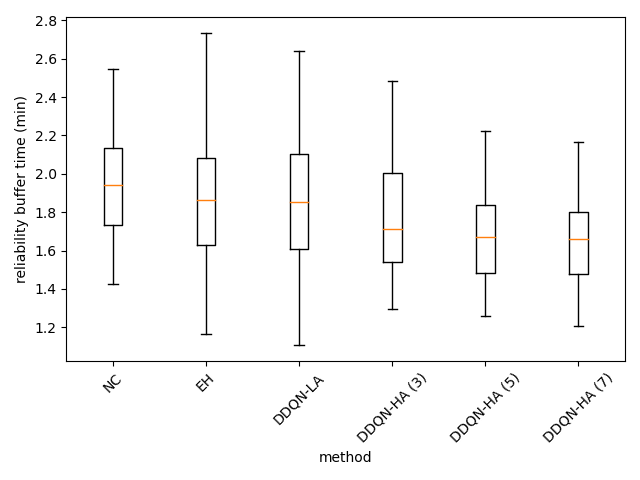
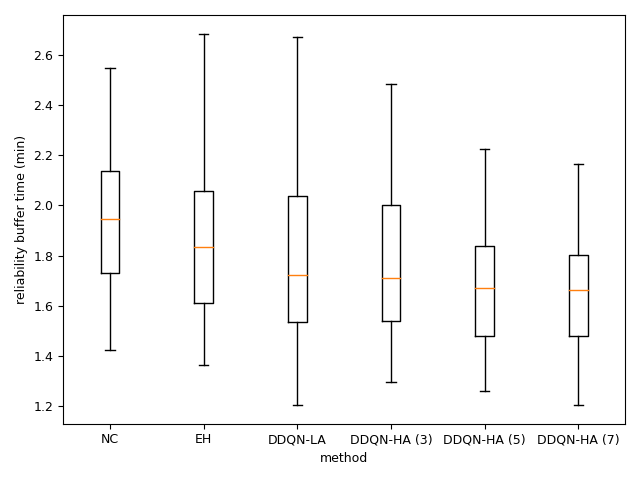
fix plots

diff --git a/src/04_SIMULATION/output.py b/src/04_SIMULATION/output.py
@@ -55,13 +55,8 @@ class PostProcessor:
             plot_sensitivity_whisker(wt_all_set, ['DDQN-LA', 'DDQN-HA'], ['0% (base)', '10%', '20%'],
                                      'avg pax wait time (min)', self.path_dir + 'wt.png')
         else:
-            plt.boxplot(wt_all_set, labels=self.cp_tags, sym='', widths=0.2)
-            plt.xticks(rotation=45)
-            plt.xlabel('method')
-            plt.ylabel('avg pax wait time (min)')
-            plt.tight_layout()
-            plt.savefig(self.path_dir + 'wt.png')
-            plt.close()
+            save(self.path_dir + 'wt_numer.pkl', wt_all_set)
+
         return results_d
 
     def headway(self, sensitivity_run_t=False, sensitivity_compliance=False):
@@ -98,7 +93,7 @@ class PostProcessor:
             plt.xlabel('method')
             plt.ylabel('coefficient of variation of headway')
             plt.tight_layout()
-            plt.savefig(self.path_dir + 'cv_hw.png')
+            # plt.savefig(self.path_dir + 'cv_hw.png')
             plt.close()
         cv_hw_set_sub = cv_hw_set[0:3] + [cv_hw_set[-1]]
         tags = self.cp_tags[0:3] + [self.cp_tags[-1]]
@@ -109,12 +104,13 @@ class PostProcessor:
         x = np.arange(len(idx_control_stops))
         width = 0.1
         fig, ax = plt.subplots()
-        bar1 = ax.bar(x - 3 * width / 2, cv_tp_set[0], width, label=tags[0])
-        bar2 = ax.bar(x - width / 2, cv_tp_set[1], width, label=tags[1])
-        bar3 = ax.bar(x + width / 2, cv_tp_set[2], width, label=tags[2])
-        bar4 = ax.bar(x + 3 * width / 2, cv_tp_set[3], width, label=tags[3])
+        bar1 = ax.bar(x - 3 * width / 2, cv_tp_set[0], width, label=tags[0], color='white', edgecolor='black')
+        bar2 = ax.bar(x - width / 2, cv_tp_set[1], width, label=tags[1], color='silver', edgecolor='black')
+        bar3 = ax.bar(x + width / 2, cv_tp_set[2], width, label=tags[2], color='gray', edgecolor='black')
+        bar4 = ax.bar(x + 3 * width / 2, cv_tp_set[3], width, label=tags[3], color='black', edgecolor='black')
 
         ax.set_ylabel('coefficient of variation of headway')
+        ax.set_xlabel('control stop')
         ax.set_xticks(x, idx_control_stops)
         ax.legend()
 
@@ -133,7 +129,7 @@ class PostProcessor:
         for trips in self.cp_trips:
             temp_lp, temp_lp_std, temp_peak_loads, max_load, min_load = load_from_trajectory_set(trips,
                                                                                                  STOPS, IDX_LOAD,
-                                                                                                 STOPS[57])
+                                                                                                 STOPS[56])
             load_profile_set.append(temp_lp)
             lp_std_set.append(temp_lp_std)
             peak_load_set.append(temp_peak_loads)

diff --git a/src/04_SIMULATION/main_sim.py b/src/04_SIMULATION/main_sim.py
@@ -106,7 +106,6 @@ results.update(prc.pax_times_fast(include_rbt=False))
 
 
 rbt_od_set = load(path_dir_b + 'rbt_numer.pkl')
-rbt_od_set = rbt_od_set[:2] + rbt_od_set[3:]
 for i in range(len(rbt_od_set)):
     rbt_od_set[i] = [rbt/60 for rbt in rbt_od_set[i]]
 results.update({'rbt_od': [np.around(np.mean(rbt), decimals=2) for rbt in rbt_od_set]})
@@ -115,16 +114,38 @@ results.update(prc.load_profile())
 results.update(prc.trip_time_dist())
 prc.write_trajectories()
 results.update(prc.control_actions())
+print(results)
 results_df = pd.DataFrame(results, columns=list(results.keys()))
 results_df.to_csv(path_dir_b + 'numer_results.csv', index=False)
 
 #
-# plt.boxplot(rbt_od_set, labels=tags_b, sym='', widths=0.2)
-# plt.xticks(rotation=45)
-# plt.xlabel('method')
-# plt.ylabel('reliability buffer time (min)')
+fig, axs = plt.subplots(ncols=2)
+axs[0].boxplot(rbt_od_set, labels=tags_b, sym='', widths=0.2)
+# plt.yticks(fontsize=8)
+# plt.xticks(fontsize=8, rotation=90)
+axs[0].set_xticks(np.arange(1, len(tags_b)+1))
+axs[0].set_xticklabels(tags_b, rotation=90, fontsize=8)
+axs[0].tick_params(axis='y', labelsize=8)
+# plt.xlabel('method', fontsize=9)
+axs[0].set_ylabel('reliability buffer time (min)', fontsize=8)
+
+
+wt_all_set = load(path_dir_b + 'wt_numer.pkl')
+axs[1].boxplot(wt_all_set, labels=tags_b, sym='', widths=0.2)
+# plt.xticks(fontsize=8, rotation=90)
+# plt.yticks(fontsize=8)
+axs[1].set_xticks(np.arange(1, len(tags_b)+1))
+axs[1].set_xticklabels(tags_b, rotation=90, fontsize=8)
+axs[1].tick_params(axis='y', labelsize=8)
+# plt.xlabel('method', fontsize=9)
+axs[1].set_ylabel('avg pax wait time (min)', fontsize=8)
+
+plt.tight_layout()
+plt.savefig(path_dir_b + 'pax_times.png')
+plt.close()
+
 # plt.tight_layout()
-# plt.savefig(path_dir_b + 'rbt.png')
+# plt.savefig(path_dir_b + 'wt.png')
 # plt.close()
 
 # # VARIABILITY RUN TIMES

diff --git a/src/04_SIMULATION/post_process.py b/src/04_SIMULATION/post_process.py
@@ -517,8 +517,9 @@ def plot_load_profile_grid(lp_set, lp_max_set, lp_min_set, lp_sd_set, os, tags, 
         ax.set_title(tags[subset_idx[i]], fontsize=9)
         ax.grid(axis='y')
         ax.axhline(y=40, color='red', alpha=0.5)
-        obj1 = ax.fill_between(x1, upper_bound1, lower_bound1, alpha=0.8)
-        obj2 = ax.fill_between(x1, upper_bound2, lower_bound2, alpha=0.2)
+        # ax.axvline(x=56, color='blue', alpha=0.5)
+        obj1 = ax.fill_between(x1, upper_bound1, lower_bound1, alpha=0.8, color='black')
+        obj2 = ax.fill_between(x1, upper_bound2, lower_bound2, alpha=0.4, color='gray')
         # ax.plot(x1, lp_max_set[0])
         ax.set_ylabel('load (pax)', fontsize=9)
         ax.set_xlabel('stop', fontsize=9)
